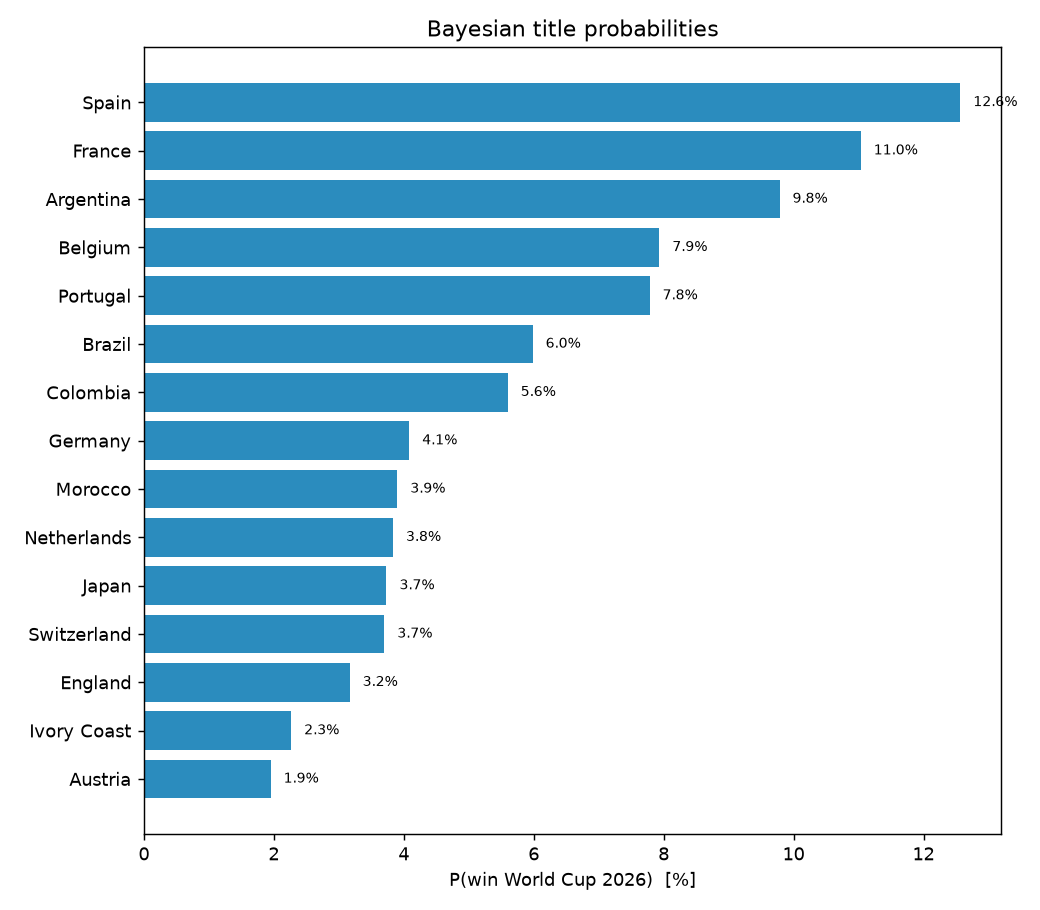
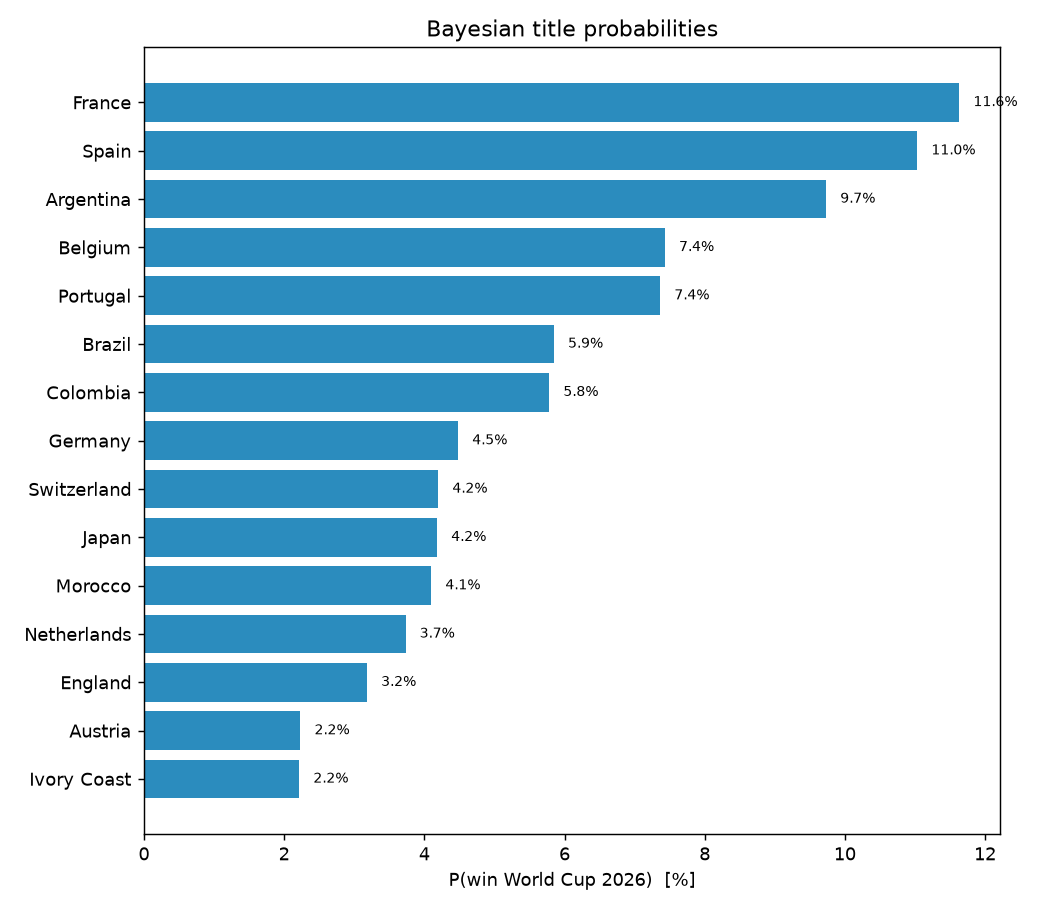
tracker: daily refresh 2026-07-17

diff --git a/docs/CHAMPION_TRACKER.md b/docs/CHAMPION_TRACKER.md
@@ -1,6 +1,6 @@
 # 🏆 World Cup 2026 — Champion Tracker
 
-_A living, state-aware forecast. Conditioned on the **102 matches played so far**: completed group games are held fixed; the rest of the tournament is simulated from a Bayesian goals model (squad-skill prior + current form + X/ESPN sentiment). Updated 2026-07-16._
+_A living, state-aware forecast. Conditioned on the **102 matches played so far**: completed group games are held fixed; the rest of the tournament is simulated from a Bayesian goals model (squad-skill prior + current form + X/ESPN sentiment). Updated 2026-07-17._
 
 ## How to read this
 
@@ -15,18 +15,18 @@ Both come from one model: goals are the primitive; the winner is a simulation ov
 
 | Team | Quarter | Semi | Final | **Champion** |
 |---|---|---|---|---|
-| Spain | 50% | 28% | 18% | **13%** |
-| France | 49% | 27% | 16% | **11%** |
-| Argentina | 47% | 25% | 14% | **10%** |
-| Belgium | 45% | 23% | 12% | **8%** |
-| Portugal | 44% | 23% | 12% | **8%** |
-| Brazil | 41% | 22% | 10% | **6%** |
-| Colombia | 41% | 21% | 10% | **6%** |
-| Germany | 38% | 20% | 9% | **4%** |
-| Morocco | 34% | 18% | 9% | **4%** |
-| Netherlands | 34% | 17% | 9% | **4%** |
-| Japan | 35% | 18% | 8% | **4%** |
-| Switzerland | 35% | 18% | 9% | **4%** |
+| France | 49% | 27% | 16% | **12%** |
+| Spain | 47% | 26% | 16% | **11%** |
+| Argentina | 48% | 25% | 14% | **10%** |
+| Belgium | 45% | 23% | 12% | **7%** |
+| Portugal | 44% | 23% | 12% | **7%** |
+| Brazil | 42% | 22% | 11% | **6%** |
+| Colombia | 41% | 22% | 11% | **6%** |
+| Germany | 38% | 19% | 10% | **4%** |
+| Switzerland | 33% | 18% | 9% | **4%** |
+| Japan | 36% | 19% | 10% | **4%** |
+| Morocco | 37% | 19% | 9% | **4%** |
+| Netherlands | 34% | 18% | 9% | **4%** |
 
 _Mexico's Round-of-32 opponent odds (per candidate): [R32_ODDS.md](R32_ODDS.md) — `make r32-odds`._
 

diff --git a/docs/GOAL_DIFF_FORECAST.md b/docs/GOAL_DIFF_FORECAST.md
@@ -1,6 +1,6 @@
 # Goal-difference forecast (Gaussian model)
 
-_A simple Bayesian model of the **signed goal difference** (home - away): `goal_diff ~ Normal(mu, sigma)`, `mu = home_adv + strength[home] - strength[away]`, with a player-informed prior on strength. Refit daily on the latest results. Fit on **660 matches** through 2026-07-16._
+_A simple Bayesian model of the **signed goal difference** (home - away): `goal_diff ~ Normal(mu, sigma)`, `mu = home_adv + strength[home] - strength[away]`, with a player-informed prior on strength. Refit daily on the latest results. Fit on **660 matches** through 2026-07-17._
 
 _Player-data weight `beta_prior` = **0.70** (how much the model leans on squad ratings vs. results).
 
@@ -36,4 +36,4 @@ _`E[margin]` = expected goal difference (sign = favourite). Probabilities are fr
 - **Strength prior:** `strength = beta_prior * prior_strength + residual`; `prior_strength` is the squad rating built from player attributes, and `beta_prior` is learned. See [notebooks/goal_difference_gaussian.ipynb](../notebooks/goal_difference_gaussian.ipynb) for the full teaching walkthrough.
 - **Simpler cousin** of the production Poisson scoreline model ([CHAMPION_TRACKER.md](CHAMPION_TRACKER.md)); it forecasts the *margin* rather than full scorelines.
 
-_Updated 2026-07-16 by the daily tracker._
+_Updated 2026-07-17 by the daily tracker._

diff --git a/docs/match_predictions.md b/docs/match_predictions.md
@@ -1,6 +1,6 @@
 # WC 2026 — Match Predictions vs Reality, and Forecasts
 
-_Model trained on pre-tournament data only (results to 2026-06-10 + FIFA squad prior). Backtest compares those out-of-sample forecasts to the actual scorelines; forecasts cover the next slate. Compiled 2026-07-16._
+_Model trained on pre-tournament data only (results to 2026-06-10 + FIFA squad prior). Backtest compares those out-of-sample forecasts to the actual scorelines; forecasts cover the next slate. Compiled 2026-07-17._
 
 ## Accuracy so far (out-of-sample)
 

diff --git a/docs/FORECAST_LOG.md b/docs/FORECAST_LOG.md
@@ -1,6 +1,6 @@
 # 📒 Forecast Log — Predictions vs Ground Truth
 
-_A growing, append-on-result ledger: every goal forecast and how it turned out. Updated by the daily GitHub Action. Compiled 2026-07-16._
+_A growing, append-on-result ledger: every goal forecast and how it turned out. Updated by the daily GitHub Action. Compiled 2026-07-17._
 
 ## Running accuracy (resolved matches)
 

diff --git a/docs/WINNERS.md b/docs/WINNERS.md
@@ -1,6 +1,6 @@
 # 🔮 WC 2026 — Winners: next-day picks + champion scorecard
 
-_A simple **Elo** model, conditioned on the **102 matches played so far** and the real 2026 bracket. Updated 2026-07-16._
+_A simple **Elo** model, conditioned on the **102 matches played so far** and the real 2026 bracket. Updated 2026-07-17._
 
 ## Next match day — who wins (Elo goals model)
 

diff --git a/docs/analytics.md b/docs/analytics.md
@@ -1,6 +1,6 @@
 # WC 2026 — Tracking Analytics, Sentiment & Tactics
 
-_Run after each matchday to track model calibration and read the next slate. Charts in `artifacts/`. Compiled 2026-07-16._
+_Run after each matchday to track model calibration and read the next slate. Charts in `artifacts/`. Compiled 2026-07-17._
 
 ## Tracking charts
 
